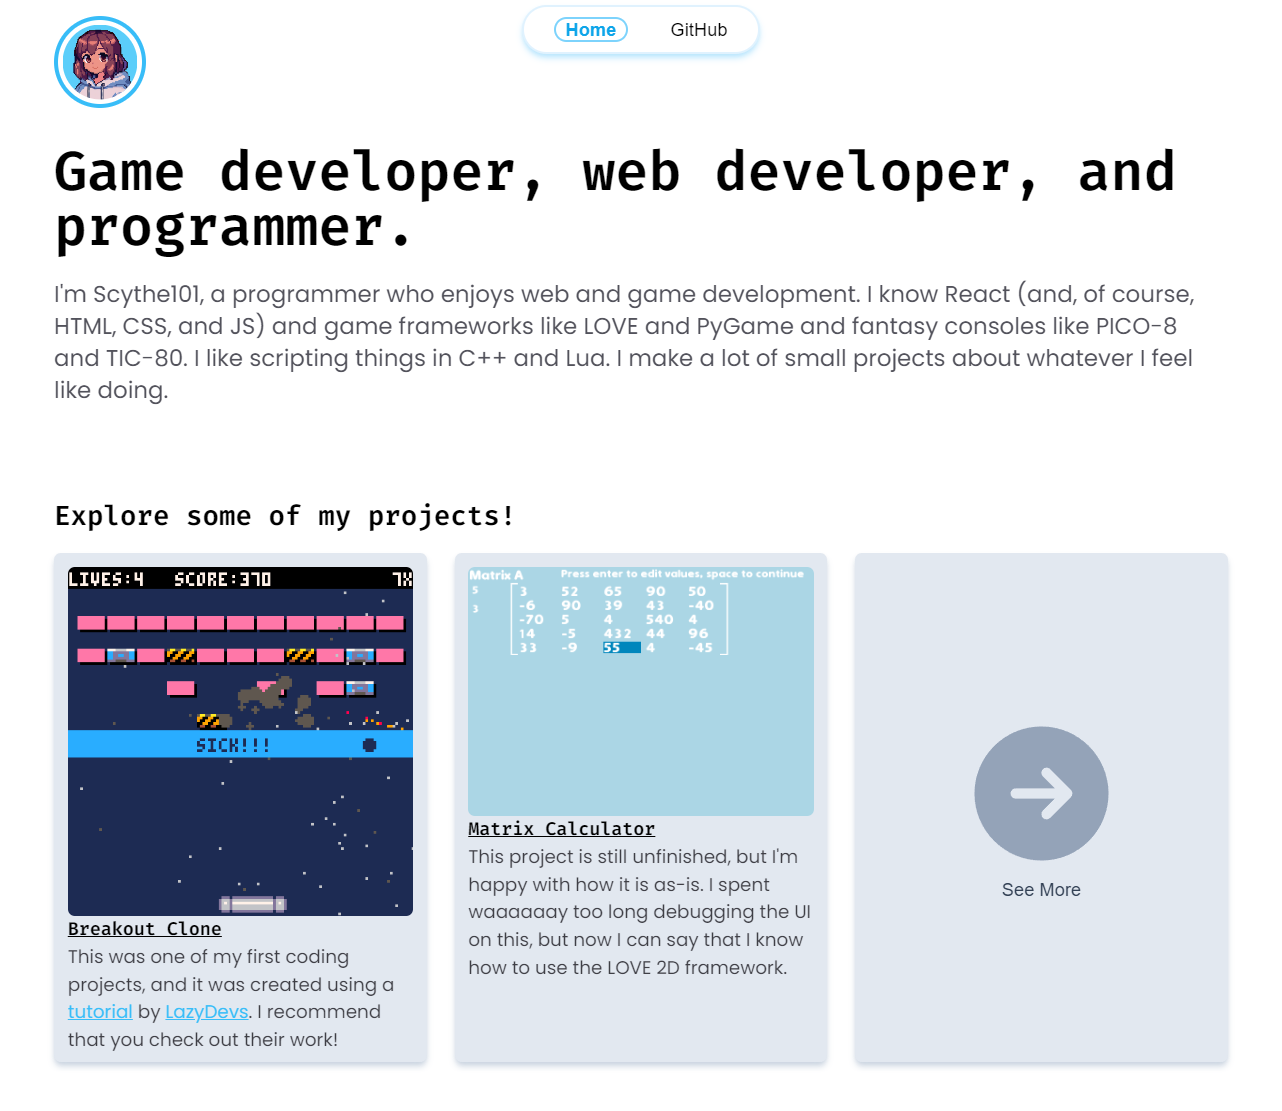
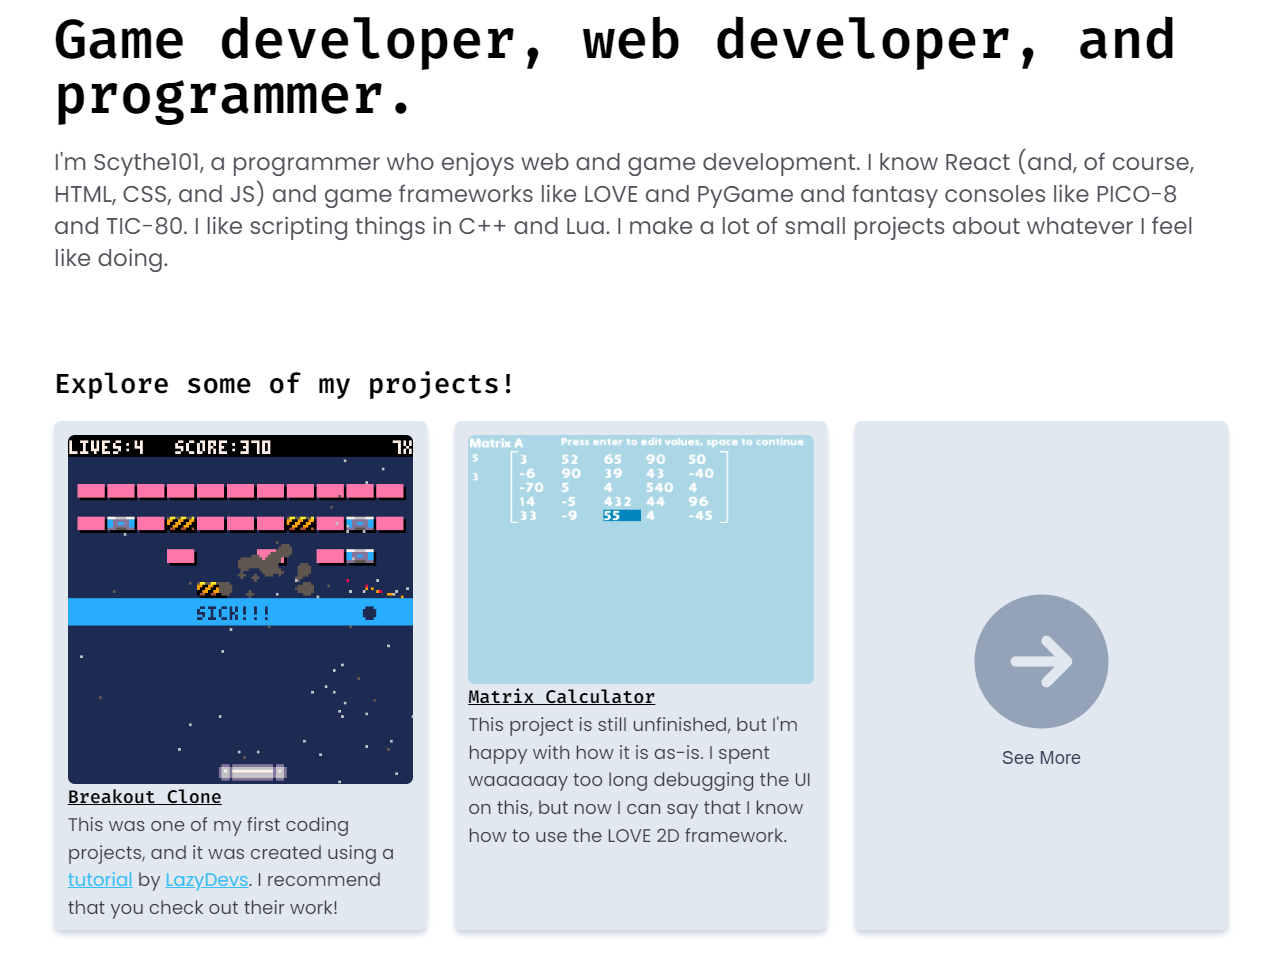
made scrolling less on phones

diff --git a/output.css b/output.css
@@ -604,6 +604,10 @@ video {
   height: 9rem;
 }
 
+.h-40 {
+  height: 10rem;
+}
+
 .w-12 {
   width: 3rem;
 }
@@ -626,6 +630,18 @@ video {
 
 .w-screen {
   width: 100vw;
+}
+
+.w-1 {
+  width: 0.25rem;
+}
+
+.w-8\/12 {
+  width: 66.666667%;
+}
+
+.w-11\/12 {
+  width: 91.666667%;
 }
 
 .flex-auto {
@@ -801,10 +817,6 @@ video {
   padding-top: 0.75rem;
 }
 
-.pt-40 {
-  padding-top: 10rem;
-}
-
 .pt-5 {
   padding-top: 1.25rem;
 }
@@ -815,14 +827,6 @@ video {
 
 .pt-8 {
   padding-top: 2rem;
-}
-
-.pt-52 {
-  padding-top: 13rem;
-}
-
-.pt-64 {
-  padding-top: 16rem;
 }
 
 .pt-80 {
@@ -1042,6 +1046,10 @@ a {
 }
 
 @media (min-width: 1024px) {
+  .lg\:h-screen {
+    height: 100vh;
+  }
+
   .lg\:w-1\/4 {
     width: 25%;
   }
